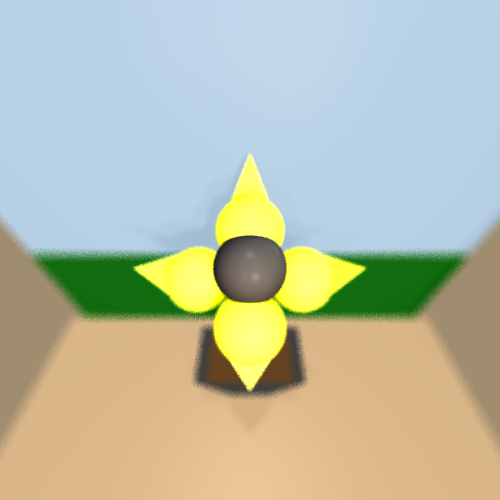
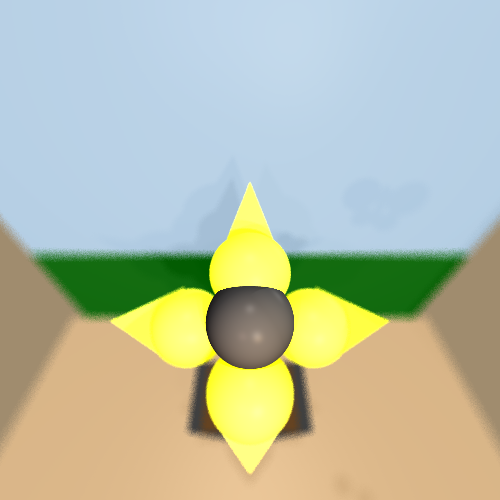
Fixing100

Changed region(s): [[0.21, 0.3, 0.78, 0.96], [0.87, 0.51, 0.9, 0.54], [0.81, 0.51, 0.84, 0.54]]

diff --git a/unittests/renderer/Mp2Tests.java b/unittests/renderer/Mp2Tests.java
@@ -204,14 +204,14 @@ class Mp2Tests {
             new Triangle( new Point(-25, 24.5, -35), new Point(-25, 23, -35), new Point(-28, 23.5, -35))
                     .setEmission(new Color(java.awt.Color.ORANGE)),
             //The wings
-            new Triangle( new Point(-23, 24, -38), new Point(-35, 24, -38), new Point(-11, 17, -36))
+            new Triangle( new Point(-26, 24, -38), new Point(-38, 24, -38), new Point(-13, 17, -36))
                     .setEmission(new Color(192, 192, 192))
                     .setMaterial(new Material().setKd(0.2).setKs(0.3).setShininess(40)),
 
             //The sun
             new Sphere( 10,new Point(26, 26, -44))
                     .setEmission(new Color(java.awt.Color.ORANGE))
-                    .setMaterial(new Material().setKd(1).setKs(1).setShininess(10)),
+                    .setMaterial(new Material().setKd(1).setKs(1).setShininess(60)),
             //The field
             new Polygon( new Point(-40, -15, -37),
                     new Point(40, -15, -37),
@@ -258,7 +258,7 @@ class Mp2Tests {
                     new DirectionalLight(new Color(70, 70, 70), new Vector(0, -1, 0)),
                     new DirectionalLight(new Color(70, 70, 70), new Vector(-1, 0, 1)),
                     new DirectionalLight(new Color(70, 70, 70), new Vector(-1, 0, 0)),
-                    new PointLight(new Color(80, 60, 60), new Point(26, 26, -44))
+                    new PointLight(new Color(80, 60, 60), new Point(26, 26, 0))
                             .setKl(0.012).setKq(0.0015)
                     ));
 
@@ -312,6 +312,7 @@ class Mp2Tests {
                 .setDofRays(50)
                 .setAperture(0.5)
                 .setFocalDistance(14)
+                .setMultithreading(-2) // Use all available cores for multithreading
                 .build();
         cam1.renderImage().writeToImage("FinalPicture2");
     }
